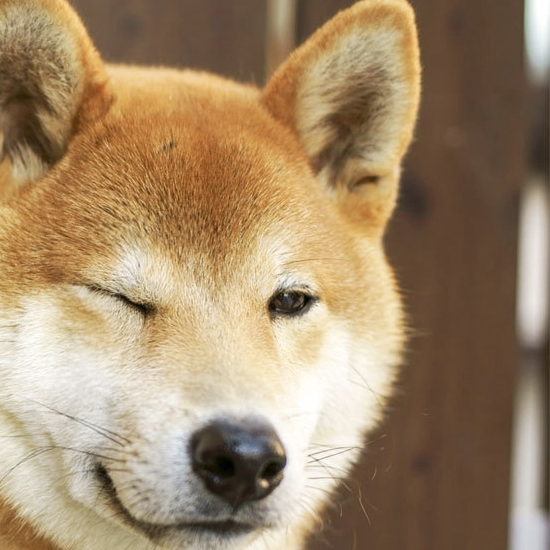
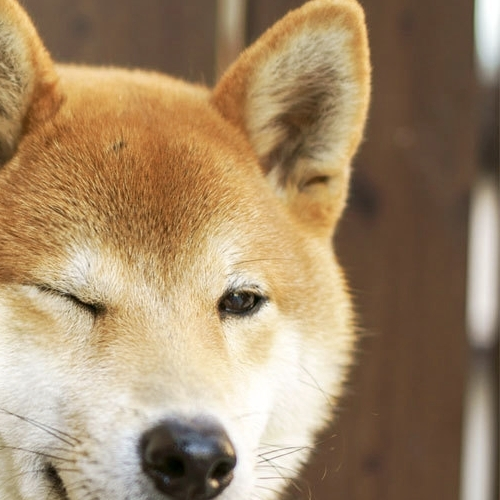
Re-crop Shiba photo to show complete dog head from right side

diff --git a/index.html b/index.html
@@ -38,7 +38,7 @@
             <div class="avatar-container">
                 <div class="avatar-ring"></div>
                 <div class="avatar">
-                    <img src="avatar-shiba.png?v=1" alt="Shiba Avatar" class="avatar-img">
+                    <img src="avatar-shiba.png?v=2" alt="Shiba Avatar" class="avatar-img">
                 </div>
             </div>
             <h1 class="hero-title">
